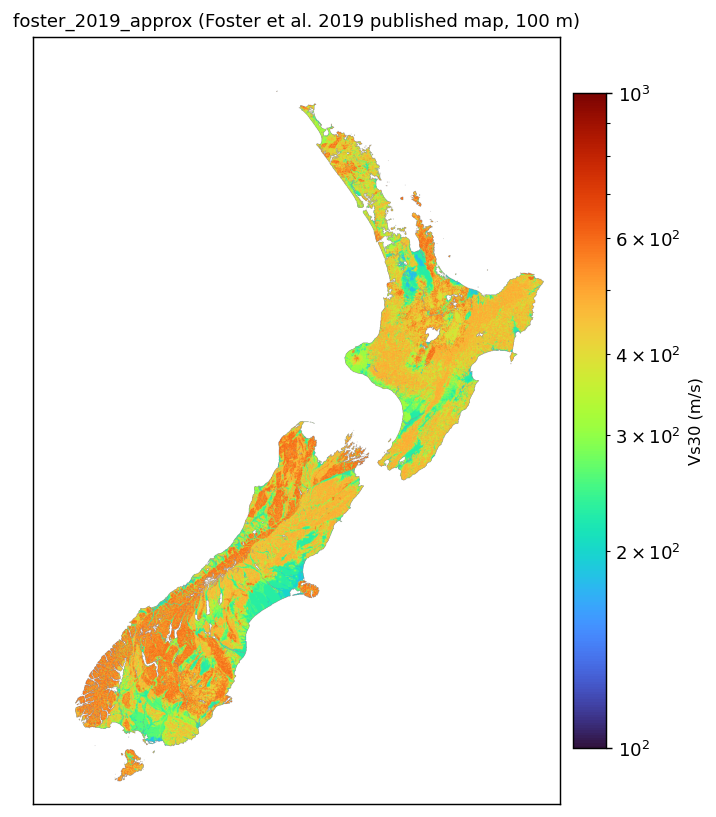
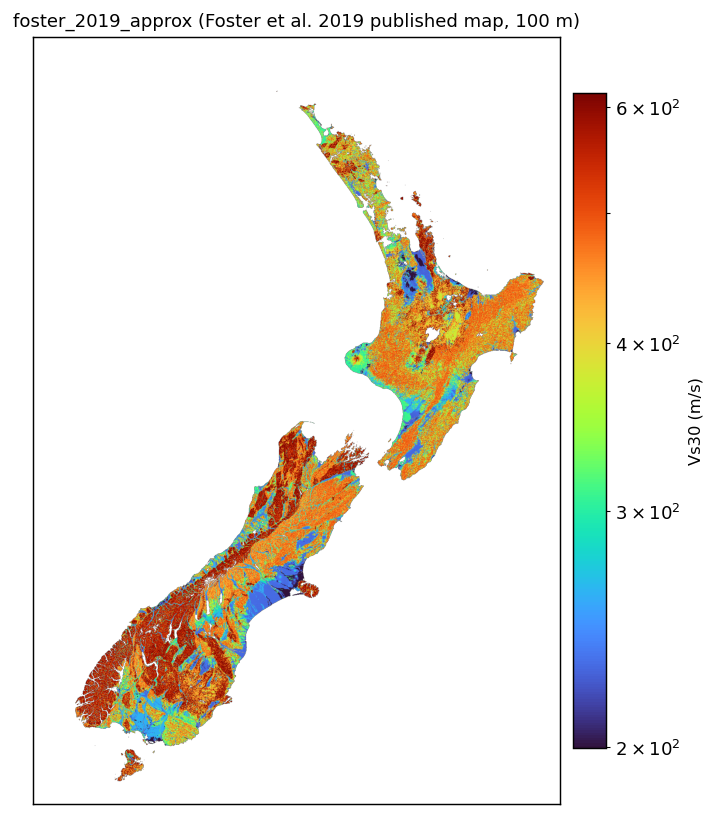
docs(wiki): per-map colorbars on example maps
Each panel now auto-scales to its own 1st-99th percentile range, so the
viktor_cpt_clustering map (lower Vs30 values) and Foster-based maps
(higher values) each span the full colormap instead of being dominated
by one colour band.

diff --git a/dev/scripts/generators/render_example_model_maps.py b/dev/scripts/generators/render_example_model_maps.py
@@ -45,9 +45,9 @@ MODELS = {
     },
 }
 
-VMIN, VMAX = 100.0, 1000.0
 CMAP = "turbo"
 MAX_DIM = 2000
+PERCENTILE_CLIP = (1.0, 99.0)
 
 
 def load_vs30(path: Path) -> tuple[np.ma.MaskedArray, tuple]:
@@ -66,11 +66,17 @@ def load_vs30(path: Path) -> tuple[np.ma.MaskedArray, tuple]:
     return np.ma.array(data, mask=mask), (bounds.left, bounds.right, bounds.bottom, bounds.top)
 
 
+def per_map_norm(data: np.ma.MaskedArray) -> mcolors.LogNorm:
+    """Per-map log-norm clipped to central percentiles so each panel uses its own dynamic range."""
+    valid = data.compressed()
+    vmin, vmax = np.percentile(valid, PERCENTILE_CLIP)
+    return mcolors.LogNorm(vmin=vmin, vmax=vmax)
+
+
 def render_single(name: str, info: dict) -> Path:
     data, extent = load_vs30(info["path"])
     fig, ax = plt.subplots(figsize=(5.5, 7.5), dpi=130)
-    norm = mcolors.LogNorm(vmin=VMIN, vmax=VMAX)
-    im = ax.imshow(data, cmap=CMAP, norm=norm, extent=extent, origin="upper")
+    im = ax.imshow(data, cmap=CMAP, norm=per_map_norm(data), extent=extent, origin="upper")
     ax.set_title(info["title"], fontsize=10)
     ax.set_xticks([])
     ax.set_yticks([])
@@ -85,19 +91,19 @@ def render_single(name: str, info: dict) -> Path:
 
 
 def render_composite() -> Path:
-    fig, axes = plt.subplots(2, 2, figsize=(11, 13), dpi=130)
-    norm = mcolors.LogNorm(vmin=VMIN, vmax=VMAX)
+    fig, axes = plt.subplots(2, 2, figsize=(12, 13), dpi=130)
     for ax, (name, info) in zip(axes.flat, MODELS.items()):
         data, extent = load_vs30(info["path"])
-        im = ax.imshow(data, cmap=CMAP, norm=norm, extent=extent, origin="upper")
+        im = ax.imshow(
+            data, cmap=CMAP, norm=per_map_norm(data), extent=extent, origin="upper"
+        )
         ax.set_title(info["title"], fontsize=10)
         ax.set_xticks([])
         ax.set_yticks([])
         ax.set_aspect("equal")
-    fig.subplots_adjust(right=0.88, wspace=0.05, hspace=0.15)
-    cbar_ax = fig.add_axes([0.90, 0.15, 0.02, 0.7])
-    cbar = fig.colorbar(im, cax=cbar_ax)
-    cbar.set_label("Vs30 (m/s)", fontsize=10)
+        cbar = fig.colorbar(im, ax=ax, shrink=0.75, pad=0.02)
+        cbar.set_label("Vs30 (m/s)", fontsize=9)
+    fig.tight_layout()
     out_path = OUTPUT_DIR / "model_comparison.png"
     fig.savefig(out_path, bbox_inches="tight")
     plt.close(fig)
